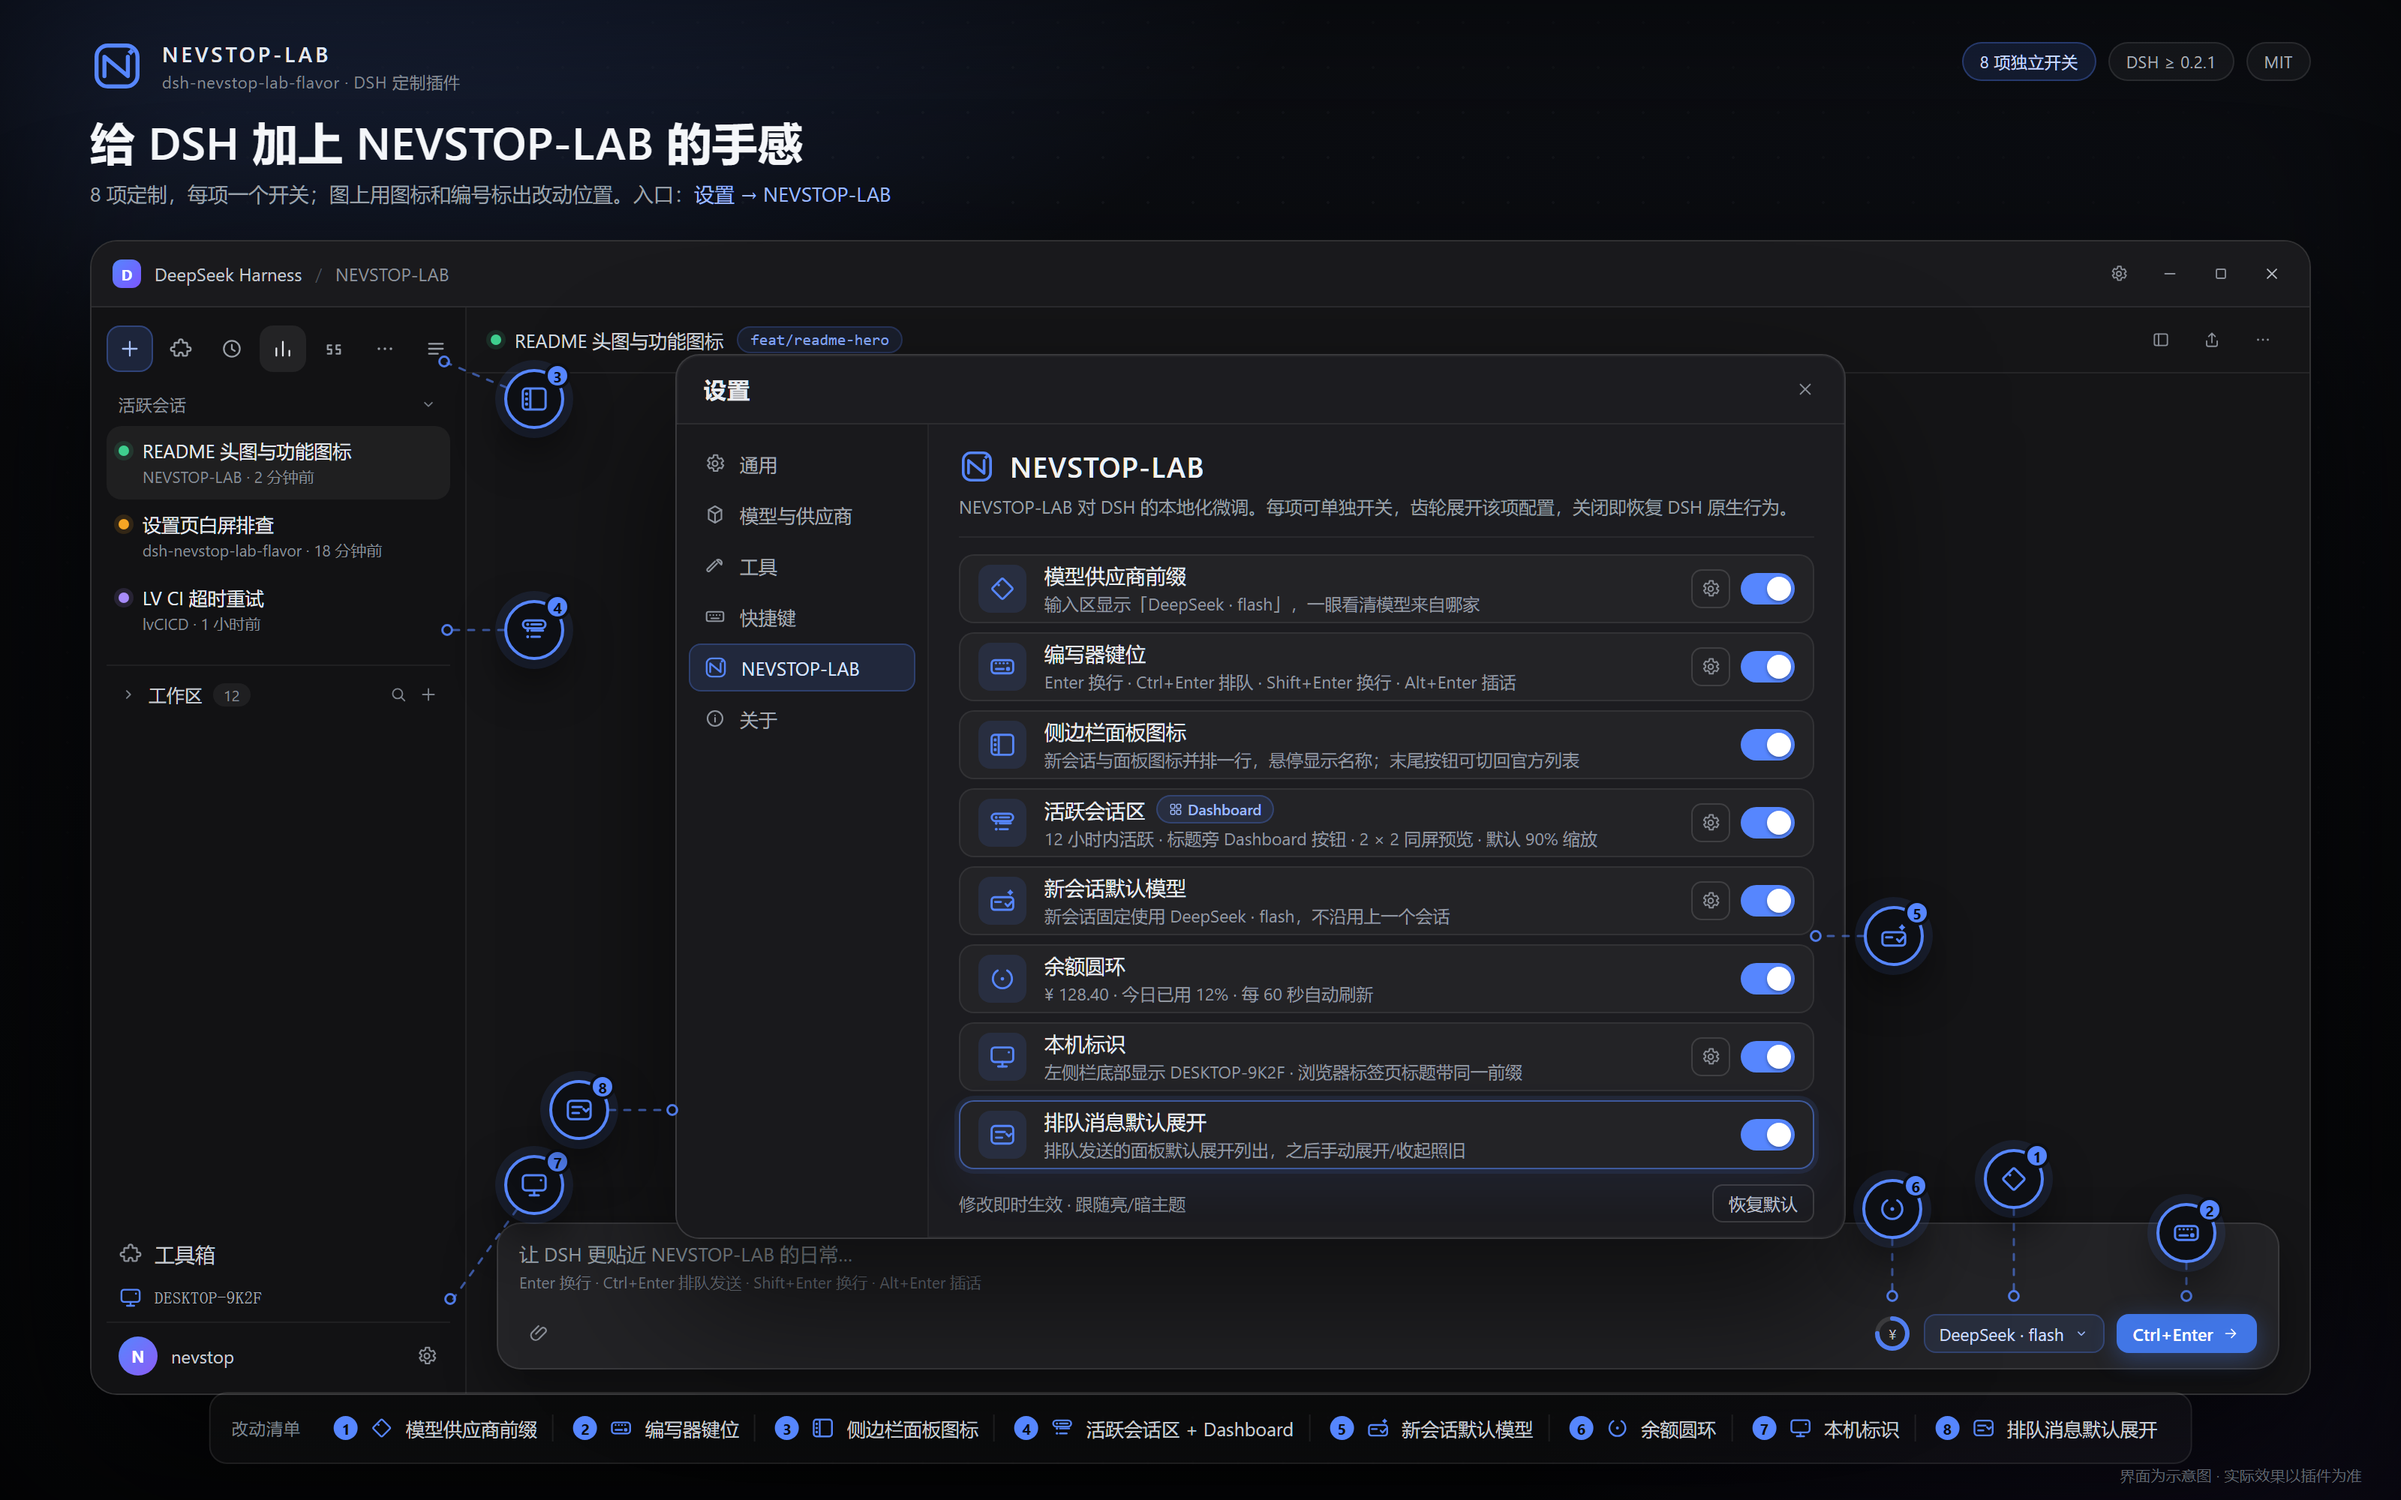
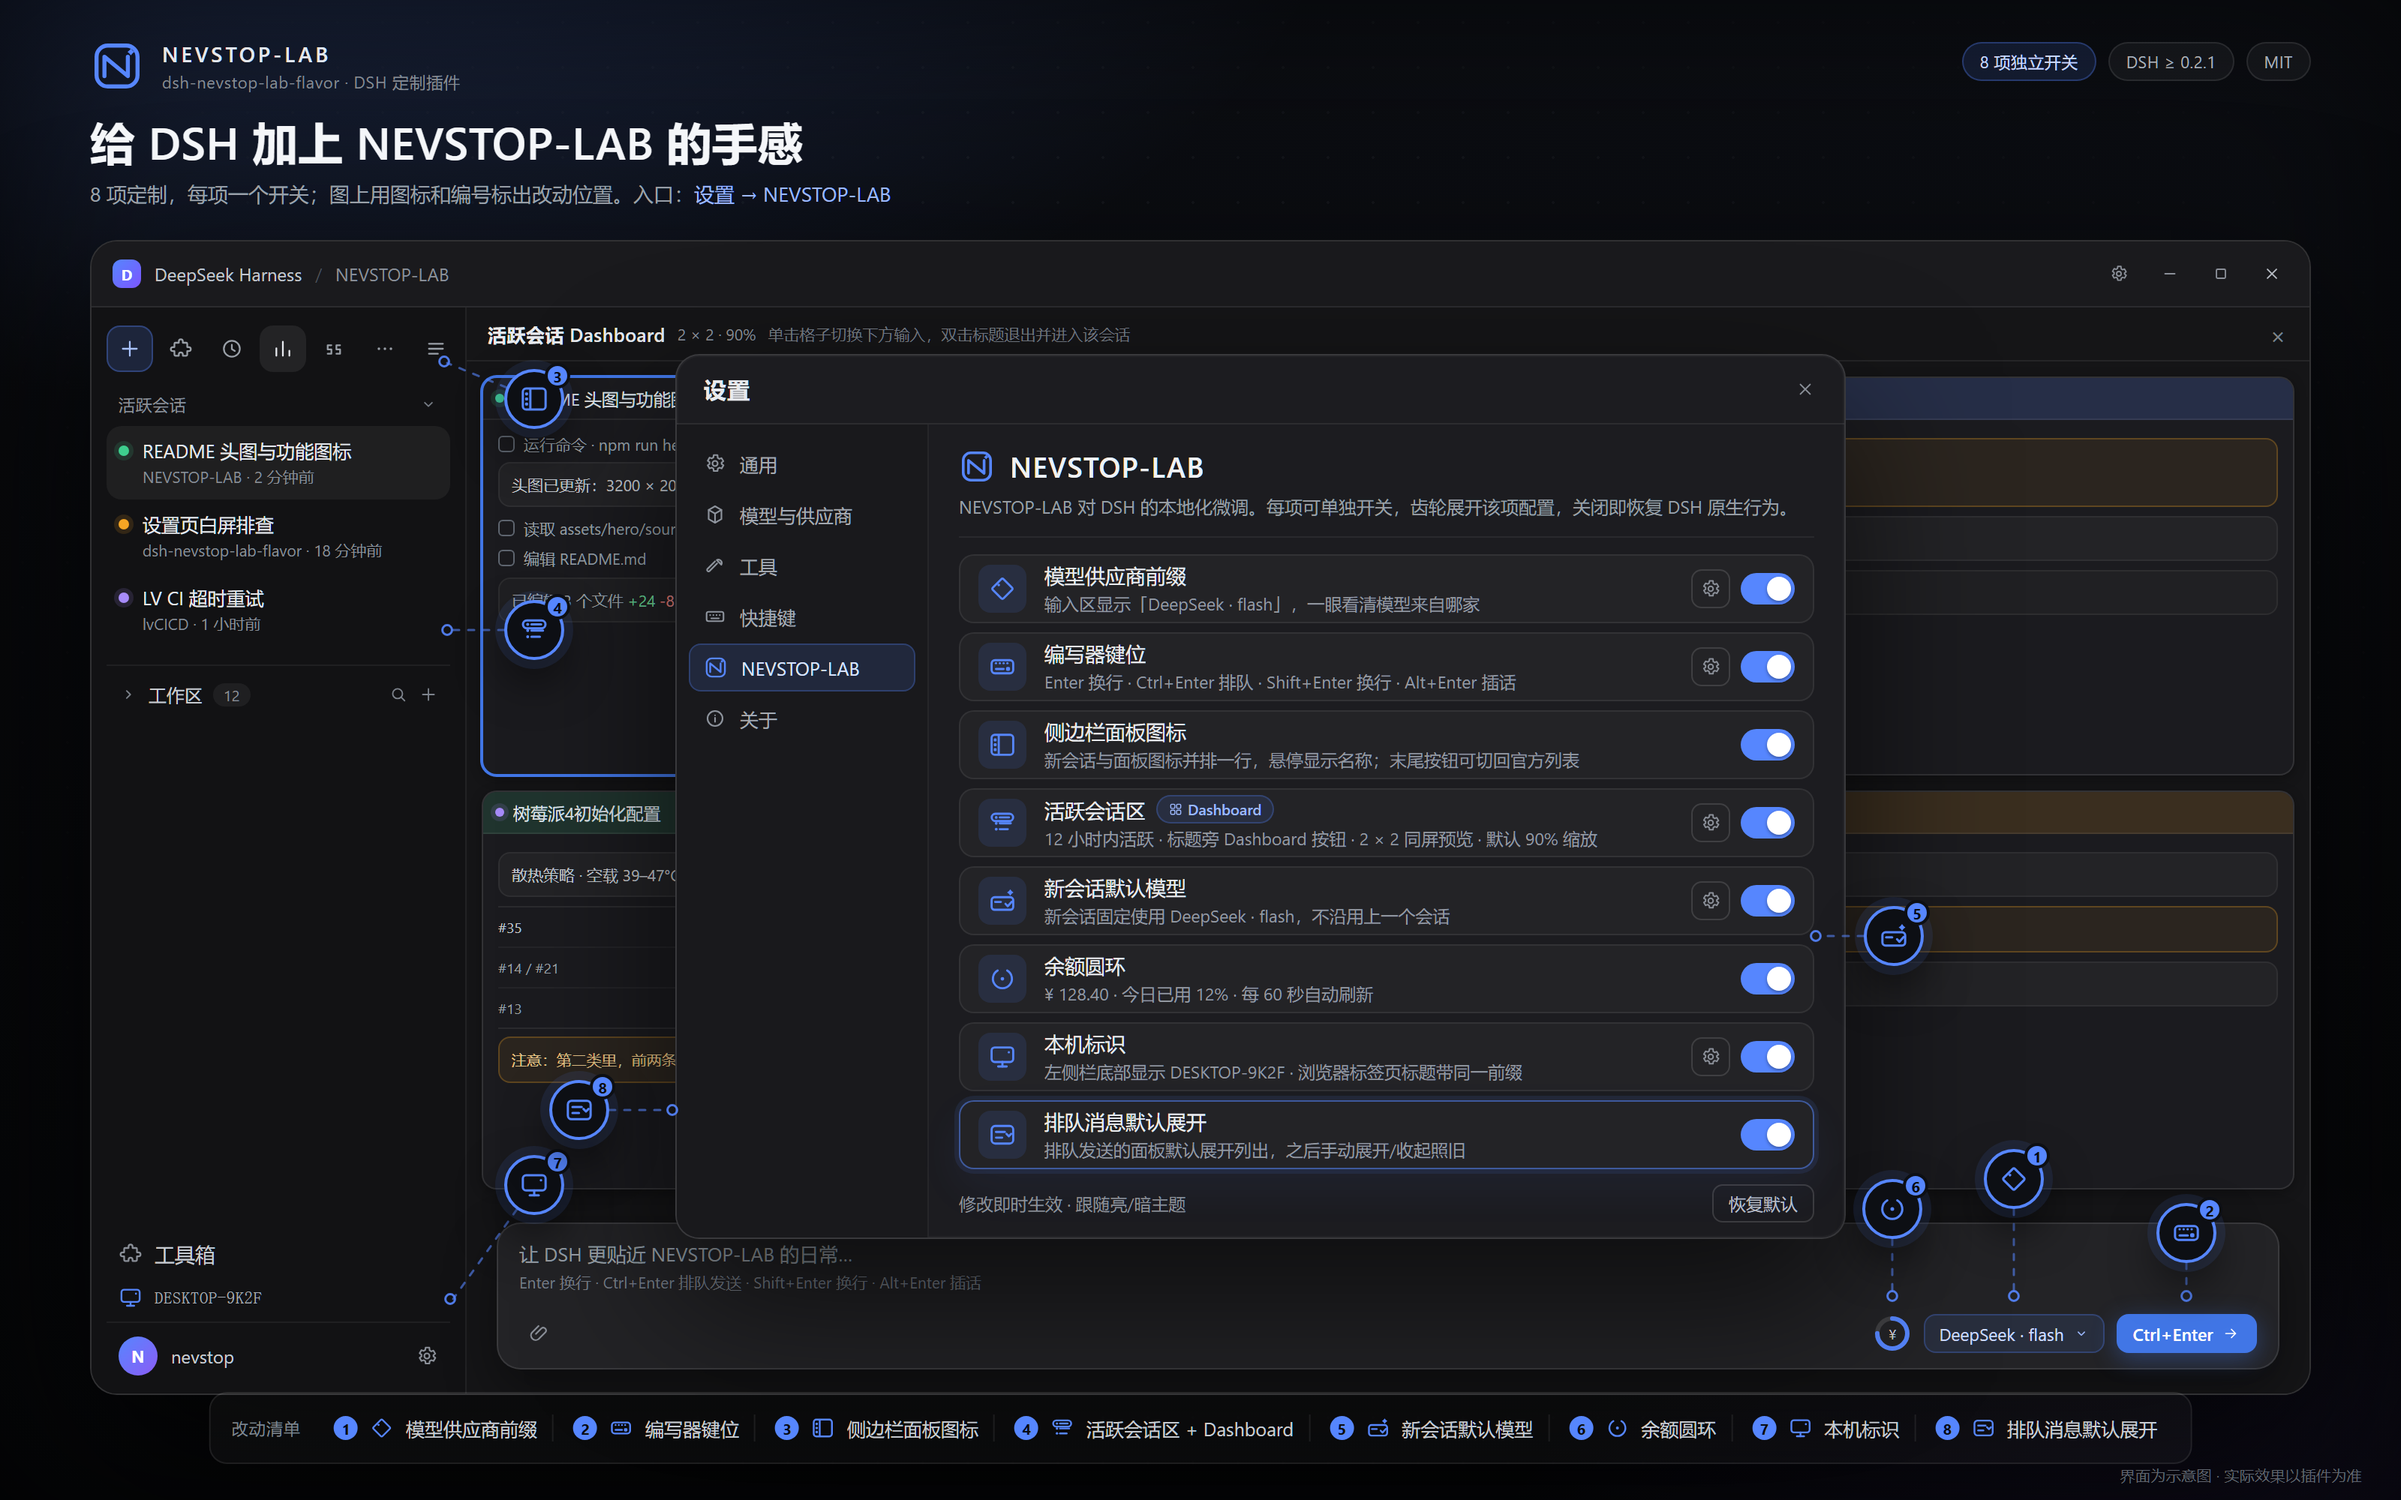
docs: README 头图绘制 Dashboard 预览

diff --git a/assets/hero/source.html b/assets/hero/source.html
@@ -169,6 +169,36 @@
   }
   .send .ui { width: 12px; height: 12px; }
 
+  /* ---------- dashboard behind the settings dialog ---------- */
+  .dash-page { position: absolute; inset: 0 0 126px; display: flex; flex-direction: column; background: #151517; }
+  .dash-head { height: 36px; flex: none; display: flex; align-items: center; gap: 8px; padding: 0 10px 0 14px; border-bottom: 1px solid rgba(255, 255, 255, .07); }
+  .dash-head-title { font-size: 12.5px; font-weight: 600; color: #e8eaee; letter-spacing: .02em; }
+  .dash-meta { font-size: 10.5px; color: #8b9099; }
+  .dash-hint { flex: 1; min-width: 0; overflow: hidden; text-overflow: ellipsis; white-space: nowrap; font-size: 10.5px; color: #767c85; }
+  .dash-close { width: 22px; height: 22px; display: flex; align-items: center; justify-content: center; color: #7d838c; }
+  .dash-grid { flex: 1; min-height: 0; display: grid; grid-template-columns: repeat(2, minmax(0, 1fr)); grid-template-rows: repeat(2, minmax(0, 1fr)); gap: 10px; padding: 10px; }
+  .dash-cell { display: flex; flex-direction: column; min-width: 0; min-height: 0; overflow: hidden; border: 1px solid rgba(255, 255, 255, .1); border-radius: 10px; background: #1b1b1f; box-shadow: 0 2px 8px rgba(0, 0, 0, .32); }
+  .dash-cell.current { border-color: #4176e6; box-shadow: 0 0 0 1px #4176e6, 0 2px 8px rgba(0, 0, 0, .32); }
+  .dash-cell-head { height: 28px; flex: none; display: flex; align-items: center; gap: 6px; padding: 0 8px; border-bottom: 1px solid rgba(255, 255, 255, .07); background: rgba(255, 255, 255, .035); }
+  .dash-cell.current .dash-cell-head { background: transparent; }
+  .dash-cell.accent-blue .dash-cell-head { background: rgba(86, 134, 254, .18); }
+  .dash-cell.accent-green .dash-cell-head { background: rgba(62, 207, 142, .14); }
+  .dash-cell.accent-amber .dash-cell-head { background: rgba(245, 165, 36, .14); }
+  .dash-cell-title { flex: 1; min-width: 0; overflow: hidden; text-overflow: ellipsis; white-space: nowrap; font-size: 11.5px; color: #dfe3e9; }
+  .dash-cell-head .dot { width: 6px; height: 6px; margin-top: 0; }
+  .dash-badge { flex: none; padding: 0 5px; border-radius: 999px; background: rgba(255, 255, 255, .07); color: #aeb4bd; font-size: 9.5px; line-height: 14px; }
+  .dash-cell-body { flex: 1; min-height: 0; overflow: hidden; padding: 8px 10px; color: #8f959e; font-size: 10.5px; line-height: 16px; }
+  .dash-tool { display: flex; gap: 6px; align-items: center; margin: 0 0 4px; color: #9aa0a8; white-space: nowrap; overflow: hidden; text-overflow: ellipsis; }
+  .dash-tool::before { content: ""; width: 9px; height: 9px; border: 1px solid #5f6670; border-radius: 3px; flex: none; }
+  .dash-msg { margin: 4px 0 6px; padding: 6px 8px; border: 1px solid rgba(255, 255, 255, .06); border-radius: 8px; background: #232326; color: #c3c8cf; }
+  .dash-note { margin: 4px 0 6px; padding: 7px 8px; border-radius: 8px; border: 1px solid rgba(245, 165, 36, .26); background: rgba(245, 165, 36, .08); color: #e6c58a; font-size: 10px; line-height: 15px; }
+  .dash-edit { margin-top: 5px; padding: 6px 8px; border: 1px solid rgba(255, 255, 255, .06); border-radius: 8px; background: #202023; color: #9aa0a8; }
+  .dash-edit .plus { color: #6fd39a; }
+  .dash-edit .minus { color: #e08a8a; }
+  .dash-table { margin: 5px 0; border-top: 1px solid rgba(255, 255, 255, .07); border-bottom: 1px solid rgba(255, 255, 255, .07); font-size: 9.5px; color: #9aa0a8; }
+  .dash-table > div { display: flex; justify-content: space-between; gap: 12px; padding: 5px 0; border-top: 1px solid rgba(255, 255, 255, .045); }
+  .dash-table > div:first-child { border-top: 0; color: #c3c8cf; }
+
   /* ---------- settings dialog ---------- */
   .settings {
     position: absolute; left: 450px; top: 236px; width: 780px; height: 590px; z-index: 30;
@@ -393,19 +423,67 @@
     </aside>
 
     <main class="main">
-      <div class="topbar">
-        <div class="topbar-left">
-          <span class="live"></span>
-          <span>README 头图与功能图标</span>
-          <span class="branch">feat/readme-hero</span>
+      <div class="dash-page">
+        <div class="dash-head">
+          <span class="dash-head-title">活跃会话 Dashboard</span>
+          <span class="dash-meta">2 × 2 · 90%</span>
+          <span class="dash-hint">单击格子切换下方输入，双击标题退出并进入该会话</span>
+          <span class="dash-close">×</span>
         </div>
-        <div class="topbar-right">
-          <span class="win-btn"><svg class="ui"><use href="#i-panel"/></svg></span>
-          <span class="win-btn"><svg class="ui"><use href="#i-share"/></svg></span>
-          <span class="win-btn"><svg class="ui"><use href="#i-more"/></svg></span>
+        <div class="dash-grid">
+          <section class="dash-cell current">
+            <div class="dash-cell-head">
+              <span class="dot run"></span>
+              <span class="dash-cell-title">README 头图与功能图标</span>
+              <span class="dash-badge">当前</span>
+            </div>
+            <div class="dash-cell-body">
+              <div class="dash-tool">运行命令 · npm run hero</div>
+              <div class="dash-msg">头图已更新：3200 × 2000</div>
+              <div class="dash-tool">读取 assets/hero/source.html</div>
+              <div class="dash-tool">编辑 README.md</div>
+              <div class="dash-edit">已编辑 3 个文件 <span class="plus">+24</span> <span class="minus">-8</span></div>
+            </div>
+          </section>
+          <section class="dash-cell accent-blue">
+            <div class="dash-cell-head">
+              <span class="dot wait"></span>
+              <span class="dash-cell-title">调研 百度网盘的开放平台，以</span>
+            </div>
+            <div class="dash-cell-body">
+              <div class="dash-note"><b>两个遗留项</b><br>插件仓库还没 star 进 deepseek-awesome 列表…</div>
+              <div class="dash-msg">官方只保留网盘，匿名直接下载会被拒绝…</div>
+              <div class="dash-edit">已编辑 4 个文件 <span class="plus">+81</span> <span class="minus">-20</span></div>
+            </div>
+          </section>
+          <section class="dash-cell accent-green">
+            <div class="dash-cell-head">
+              <span class="dot done"></span>
+              <span class="dash-cell-title">树莓派4初始化配置</span>
+            </div>
+            <div class="dash-cell-body">
+              <div class="dash-msg">散热策略 · 空载 39–47°C，无风扇，长期高负载怎么处理</div>
+              <div class="dash-table">
+                <div><span>#35</span><span>In Progress</span></div>
+                <div><span>#14 / #21</span><span>Blocked</span></div>
+                <div><span>#13</span><span>In Progress</span></div>
+              </div>
+              <div class="dash-note">注意：第二类里，前两条其实是 #62 落地前必须回答的…</div>
+            </div>
+          </section>
+          <section class="dash-cell accent-amber">
+            <div class="dash-cell-head">
+              <span class="dot done"></span>
+              <span class="dash-cell-title">下载 nanopi NEO 带显示屏的套件</span>
+            </div>
+            <div class="dash-cell-body">
+              <div class="dash-msg">官方只保留网盘，匿名直接下载会被拒绝…</div>
+              <div class="dash-note">DietPi 与 OpenWrt 都不带 NanoHat OLED 驱动…</div>
+              <div class="dash-msg">烧写方式：DietPi 的 .xz 解压成 .img，再用 balenaEtcher…</div>
+            </div>
+          </section>
         </div>
       </div>
-      <div class="chat-area"></div>
 
       <div class="composer">
         <div class="c-input">让 DSH 更贴近 NEVSTOP-LAB 的日常…</div>
